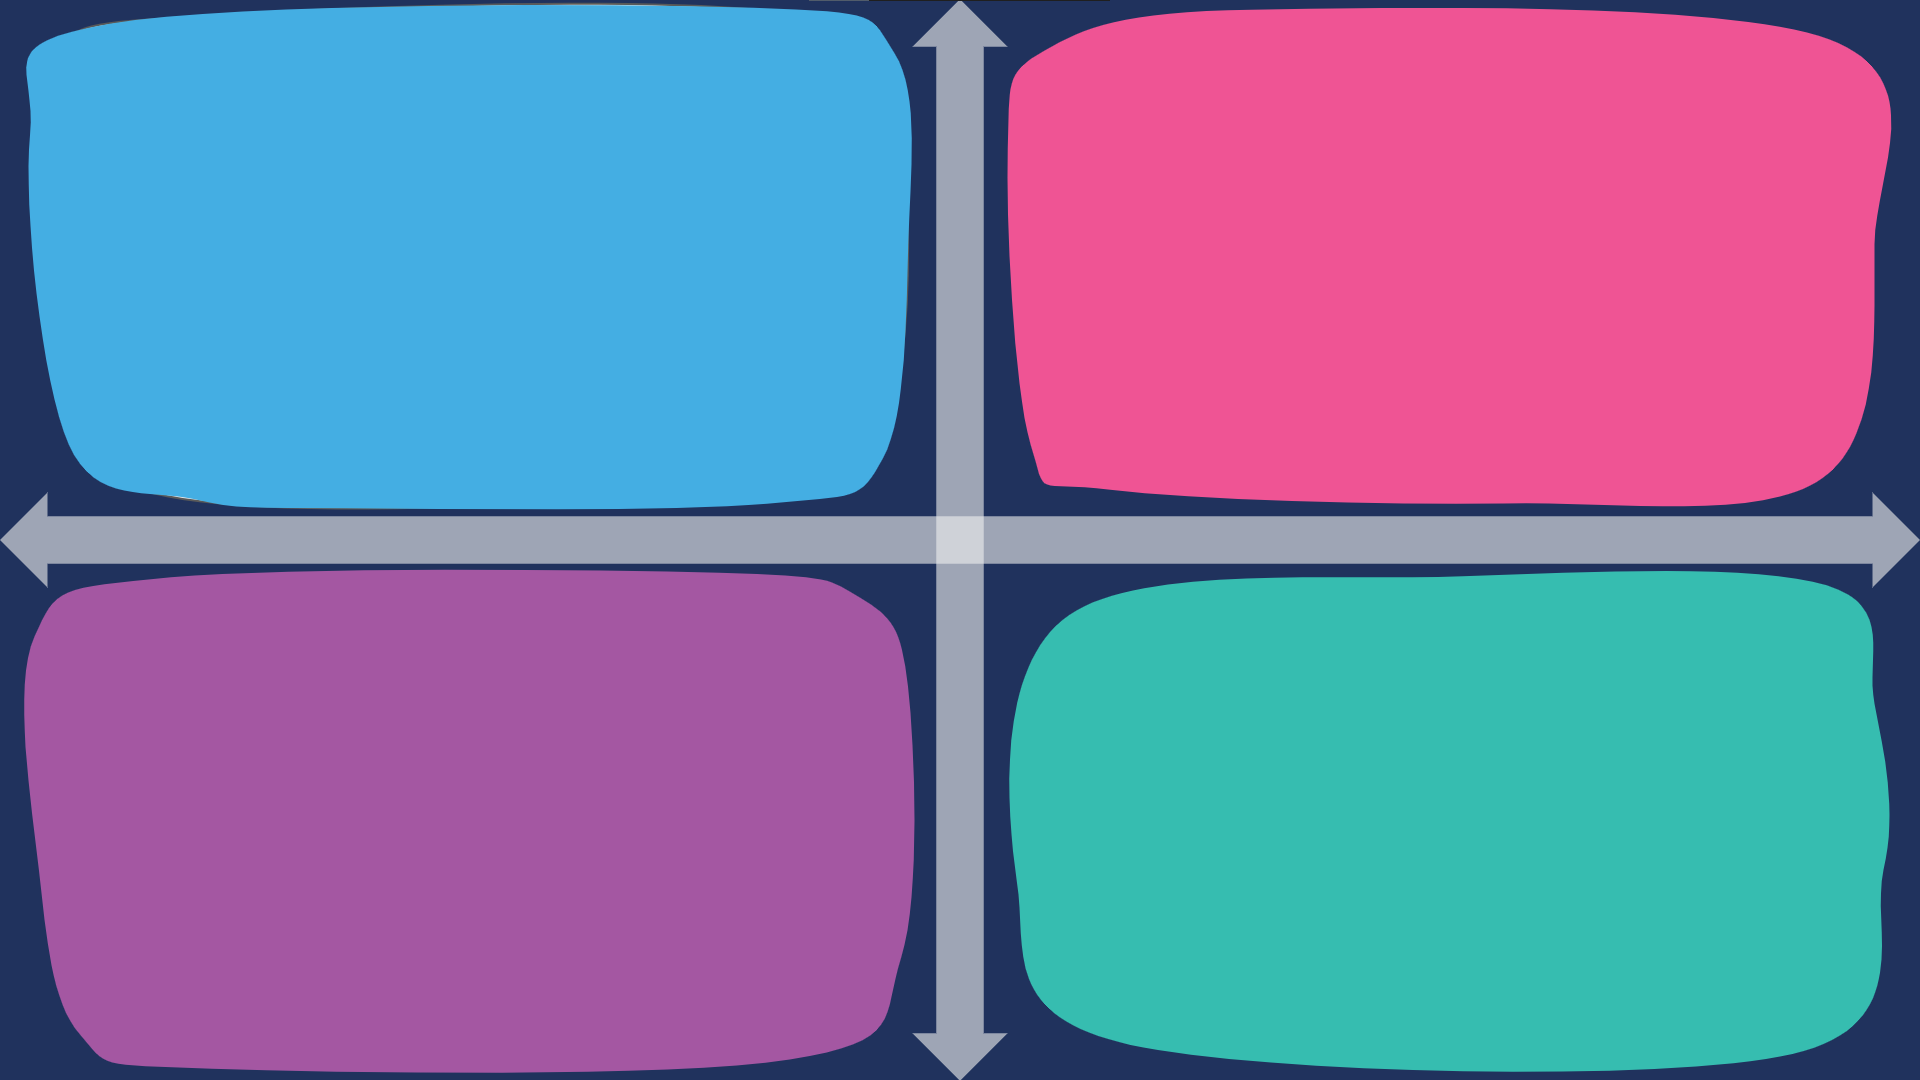
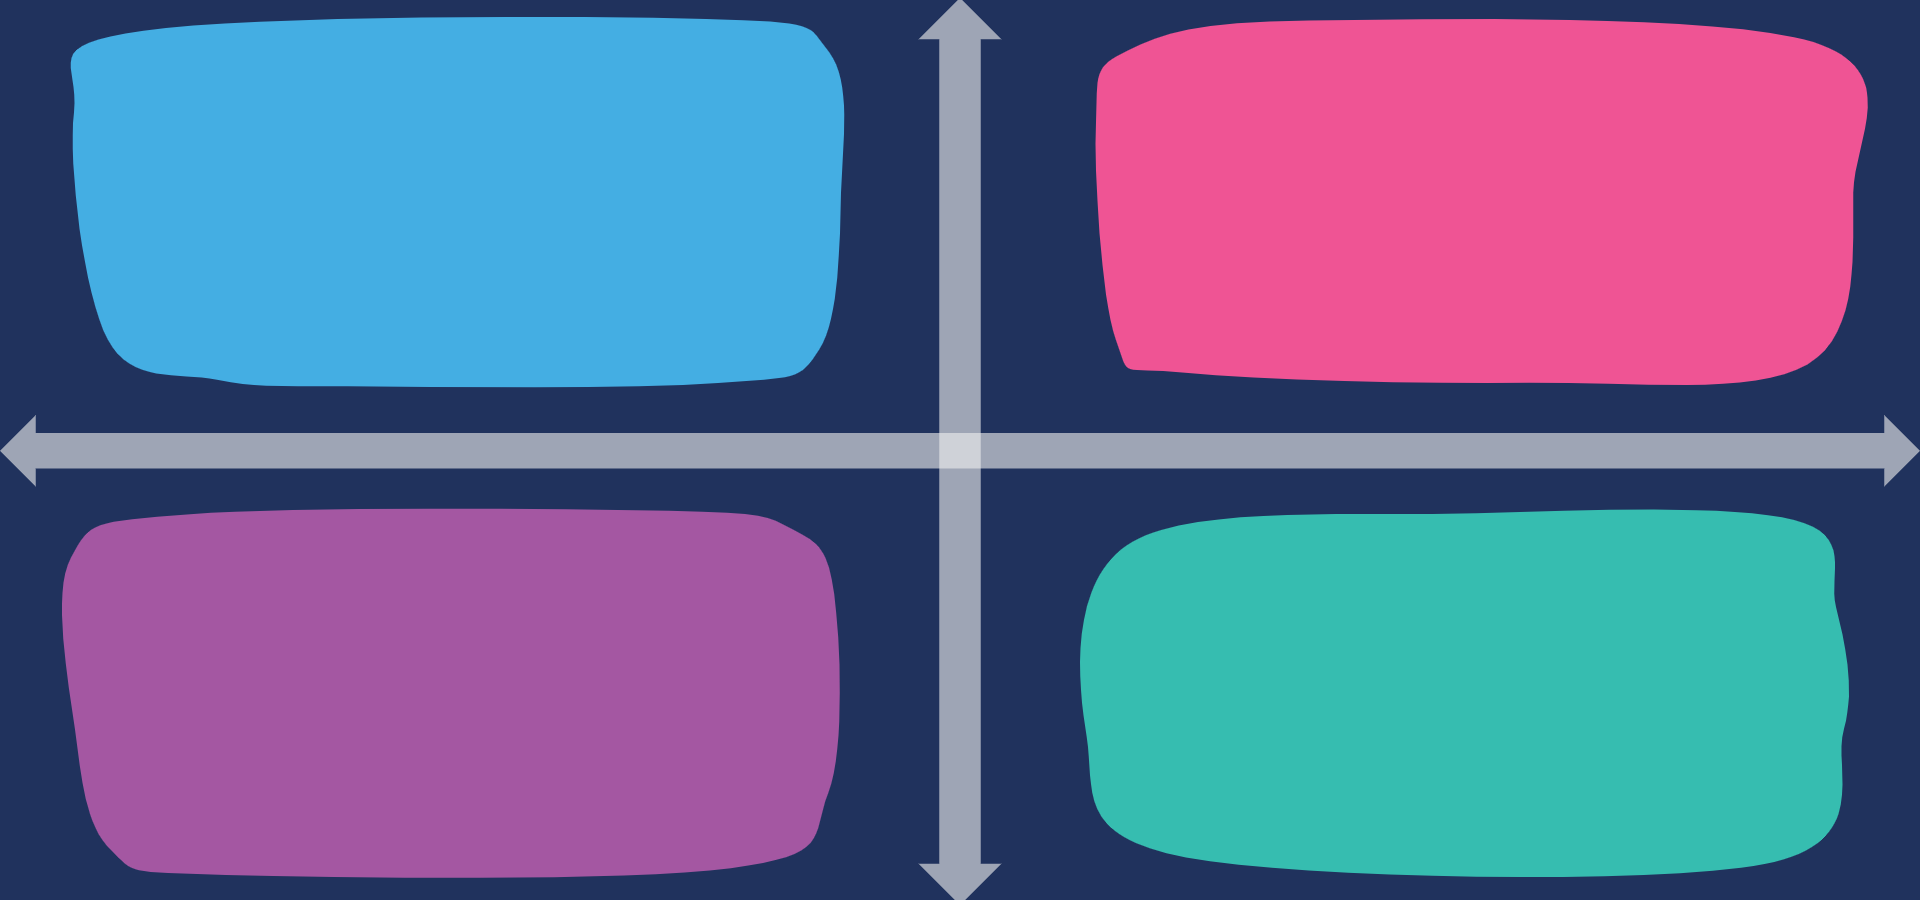
works for some cases

Changed region(s): [[0.0, 0.0, 1.0, 0.9956]]

diff --git a/frontend/src/js/main.js b/frontend/src/js/main.js
@@ -272,29 +272,101 @@ function selectNumber1(cardEl) {
 
 function goToFinalPhase() {
     console.log('🏁 Final Phase');
-
-    const yesLabel = document.getElementById('yes-label');
-    const yesLane = document.getElementById('yes');
-    const yesGrid = document.querySelector('.yes-grid')
-    if (yesLabel) yesLabel.style.display = 'none';
-    if (yesLane) yesLane.style.display = 'block';
-    if (yesGrid) {
-        yesGrid.style.backgroundImage = "url('/images/background.png')";
-        yesGrid.style.backgroundSize = 'cover';
-        yesGrid.style.backgroundPosition = 'center';
-        yesGrid.style.backgroundRepeat = 'no-repeat';
-        yesGrid.style.width = '100%';
-    }
-    document.body.classList.add('final-phase');
-
     gameState.phase = 4;
 
     const instructions = document.getElementById('instructions');
     if (instructions) instructions.textContent = 'Summary of Motivation Drivers:';
 
-    document.querySelectorAll('.grid-stack-item')
-        .forEach(el => el.classList.remove('selected'));
-}    
+    // Hide other UI elements
+    const yesLabel = document.getElementById('yes-label');
+    const yesLane = document.getElementById('yes');
+    const yesGridEl = document.querySelector('.yes-grid')
+    if (yesLabel) yesLabel.style.display = 'none';
+    if (yesLane) yesLane.style.display = 'block';
+    if (yesGridEl) {
+        yesGridEl.style.backgroundImage = "url('/images/background.png')";
+        yesGridEl.style.backgroundSize = 'cover';
+        yesGridEl.style.backgroundPosition = 'center';
+        yesGridEl.style.backgroundRepeat = 'no-repeat';
+        yesGridEl.style.width = '100%';
+        yesGridEl.style.height = window.innerHeight * 0.88 + 'px';
+        yesGridEl.style.position = 'relative';
+    }
+
+
+
+    document.body.classList.add('final-phase');
+
+    yesGrid.disable();
+    layoutCardsByCorner(yesGridEl);
+}
+
+function layoutCardsByCorner(container) {
+    if (!container) return;
+
+    const cards = container.querySelectorAll('.grid-stack-item');
+    const padding = 20;
+    const cardWidth = 150;
+    const cardHeight = 170;
+
+    const containerWidth = container.clientWidth;
+    const containerHeight = container.clientHeight;
+
+    // corner origin points
+    const corners = {
+        tl: { x: padding, y: padding, cols: 2, rows: 2 },
+        tr: { x: containerWidth - padding, y: padding, cols: 2, rows: 2 },
+        bl: { x: padding, y: containerHeight - padding, cols: 2, rows: 2 },
+        br: { x: containerWidth - padding, y: containerHeight - padding, cols: 2, rows: 2 }
+    };
+
+    // track how many cards are in each corner
+    const cornerCounts = { tl: 0, tr: 0, bl: 0, br: 0 };
+
+    cards.forEach(el => {
+        let corner = 'tl';
+        if (el.dataset.tl === 'true') corner = 'tl';
+        else if (el.dataset.tr === 'true') corner = 'tr';
+        else if (el.dataset.bl === 'true') corner = 'bl';
+        else if (el.dataset.br === 'true') corner = 'br';
+
+        const count = cornerCounts[corner];
+
+        // calculate row & col in the small subgrid (2x2)
+        const row = Math.floor(count / corners[corner].cols);
+        const col = count % corners[corner].cols;
+
+        let posX, posY;
+
+        switch (corner) {
+            case 'tl':
+                posX = corners[corner].x + col * (cardWidth + 1000);
+                posY = corners[corner].y + row * (cardHeight + 300);
+                break;
+            case 'tr':
+                posX = corners[corner].x - cardWidth - col * (cardWidth + 1000);
+                posY = corners[corner].y + row * (cardHeight + 300);
+                break;
+            case 'bl':
+                posX = corners[corner].x + col * (cardWidth + 1000);
+                posY = corners[corner].y - cardHeight - row * (cardHeight + 300);
+                break;
+            case 'br':
+                posX = corners[corner].x - cardWidth - col * (cardWidth + 1000);
+                posY = corners[corner].y - cardHeight - row * (cardHeight + 300);
+                break;
+        }
+
+        el.style.position = 'absolute';
+        el.style.left = posX + 'px';
+        el.style.top = posY + 'px';
+
+        cornerCounts[corner]++;
+    });
+}
+
+
+
 
 /* ------------------ INIT ------------------ */
 
